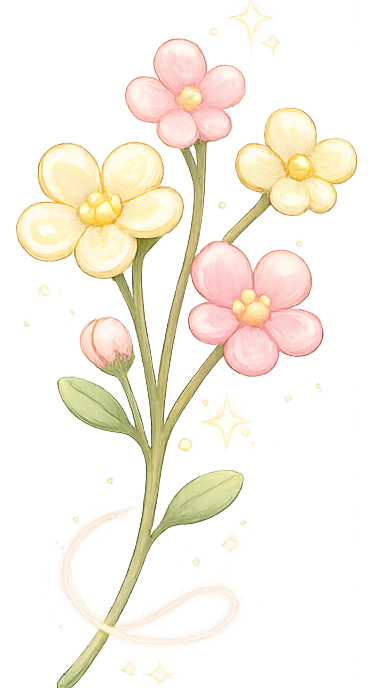
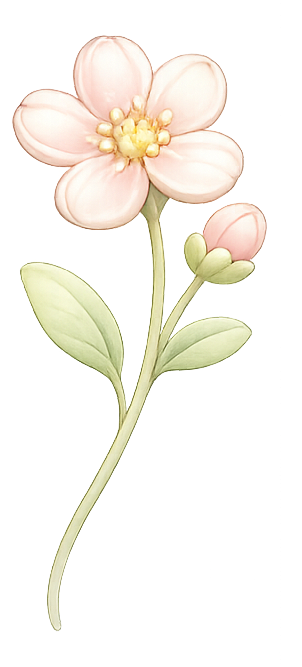
Actualizaciones generales

diff --git a/src/sections/Sobremi/decoracionI.jsx b/src/sections/Sobremi/decoracionI.jsx
@@ -5,24 +5,27 @@ export const DecoracionI = () => {
         <>
         {/* PEGATINA 1 - ESTAMPA */}
         <img
-            className="absolute -top-11 left-53 w-40 z-10"
-            src="/SActividades/decoracion/estampa.png"
+            className="hidden xl:flex absolute -top-10 left-27 -rotate-1 w-60 z-10"
+            src="/Actividades/decoracion/estampa.png"
+            alt=""
+        />
+
+        {/* PEGATINA 2 - RAMA */}
+        <img 
+            className="absolute -bottom-12 -left-10 w-40 z-10 -rotate-40"
+            src="/Actividades/decoracion/Rama.png"
             alt=""
         />
 
         {/* PEGATINA 2 - RAMA */}
         <img
-            className="absolute -bottom-14 left-5 w-50 z-10 -rotate-5"
-            src="/SActividades/decoracion/Rama.png"
+            style={{ transform: "scaleX(-1)" }}
+            className="absolute bottom-4 -right-14 w-40 z-10 rotate-25"
+            src="/Actividades/decoracion/Rama.png"
             alt=""
         />
 
-        {/* PEGATINA 3 - CORAZON RELLENO */}
-        <img
-            className="absolute bottom-15 -right-15 w-25 z-10 rotate-22"
-            src="/SActividades/decoracion/corazon-relleno.png"
-            alt=""
-        />
+
 
         </>
 

diff --git a/src/sections/Sobremi/decoracionD.jsx b/src/sections/Sobremi/decoracionD.jsx
@@ -3,11 +3,18 @@ export const DecoracionD = () => {
     return (
 
         <>
-
-        {/* PEGATINA 1 - Flores en rama */}
         <img
-            className="absolute bottom-15 -right-20 w-40 z-10 "
-            src="/ActivDidades/decoracion/flores-enrama.png"
+            className="flex sm:hidden absolute -top-15 left-1/4 rotate-6 w-60 z-10"
+            src="/Actividades/decoracion/estampa.png"
+            alt=""
+        />
+        
+
+        
+        {/* PEGATINA 3 - CORAZON RELLENO */}
+        <img
+            className="hidden absolute bottom-19 -right-8 w-25 z-10 rotate-45"
+            src="/Actividades/decoracion/corazon-relleno.png"
             alt=""
         />
 

diff --git a/src/sections/Inicio/Inicio.jsx b/src/sections/Inicio/Inicio.jsx
@@ -18,11 +18,11 @@ export const Inicio = () => {
 
             <div className="min-h-screen grid  lg:grid-cols-5  ">
 
-                <div className="lg:pl-7 flex flex-col pt-15 md:pt-12 lg:pt-25 gap-9 lg:col-span-3 ">
+                <div className="lg:pl-7 flex flex-col pt-19 md:pt-12 lg:pt-25 gap-9 lg:col-span-3 ">
 
 {/** text-[clamp(3.75rem,4.5vw,4.5rem)]*/}
-                    <div className="relative grid grid-cols-5 lg:flex lg:flex-col  ">
-                        
+                    <div className="relative grid grid-cols-5 lg:flex lg:flex-col ">
+
                         <h1 className=" flex flex-col  items-center xl:items-start -rotate-1 col-span-5" style={{ fontFamily: "var(--title-type)" }}>
                             <div className=" titulo-puntadas xl:pl-20 text-[clamp(3.5rem,13vw,5.7rem)] leading-none " >Puntadas ... ♡</div>
 
@@ -40,7 +40,8 @@ export const Inicio = () => {
 
 
                     
-                        <h2 className=" flex justify-center items-center text-4xl" style={{fontFamily:"var(--title-type)",textShadow:"0 4px 10px rgba(0,0,0,1)"}}>
+                        <h2 className=" relative  flex justify-center items-center text-4xl" style={{fontFamily:"var(--title-type)",textShadow:"0 4px 10px rgba(0,0,0,1)"}}>
+                            
                             <CroshDesign/>
                         </h2> 
                     

diff --git a/src/sections/Contactame/contact.jsx b/src/sections/Contactame/contact.jsx
@@ -95,7 +95,10 @@ export const Contact = () => {
                                     </div>
 
                                     <input
-                                        className="bg-white px-5 rounded-xl w-full"
+                                        className="bg-white px-5 rounded-xl w-full border-2 border-pink-200
+                                        focus:border-pink-400 focus:outline-none
+                                        transition-all duration-300 bg-white
+                                        "
                                         type={form.type}
                                         name={form.name}
                                         placeholder={form.texto}

diff --git a/src/sections/Sobremi/actividades.jsx b/src/sections/Sobremi/actividades.jsx
@@ -75,8 +75,8 @@ export const Actividades = () => {
             </div>
 
             
-            <div className="flex py-6 lg:px-15 xl:px-30 "> 
-
+            <div className="relative flex py-6 lg:px-15 xl:px-30  b"> 
+                        
             <button onClick={() => emblaApi?.scrollPrev()}>
                 <ChevronLeft />
             </button>

diff --git a/src/sections/corazones.jsx b/src/sections/corazones.jsx
@@ -1,5 +1,5 @@
 export const Corazones = ()=>{
-
+    const cantidad = window.innerWidth >= 1024 ? 30 : 15;
     return(
         <>
         {/*animationName: "flotar",
@@ -11,7 +11,7 @@ export const Corazones = ()=>{
                             
                             fontSize: `${Math.random() * 10 + 20}px`,*/}
                     <div className="absolute inset-0 ">
-                    {[...Array(30)].map((_,i) =>(
+                    {[...Array(cantidad)].map((_,i) =>(
                         <p key={i} className="absolute  opacity-50 pointer-events-none z-index" 
                         style={{
                             fontSize: `${Math.random() * 40 + 10}px`,

diff --git a/src/sections/Sobremi/carrusel.jsx b/src/sections/Sobremi/carrusel.jsx
@@ -48,7 +48,8 @@ export const Carrusel = ({ emblaRef }) => {
 
     return (
 
-        <div className="px-6 py-15 rounded-3xl overflow-hidden " ref={emblaRef}>
+        <div className="relative px-6 py-15 rounded-3xl overflow-hidden " ref={emblaRef}>
+            
 
             <div className="flex items-center gap-5">
 

diff --git a/src/App.jsx b/src/App.jsx
@@ -48,7 +48,7 @@ function App() {
 }, []);*/
   return (
     <div className="overflow-x-hidden ">
-      
+      <Navegador />
       <Fondos />
       
 